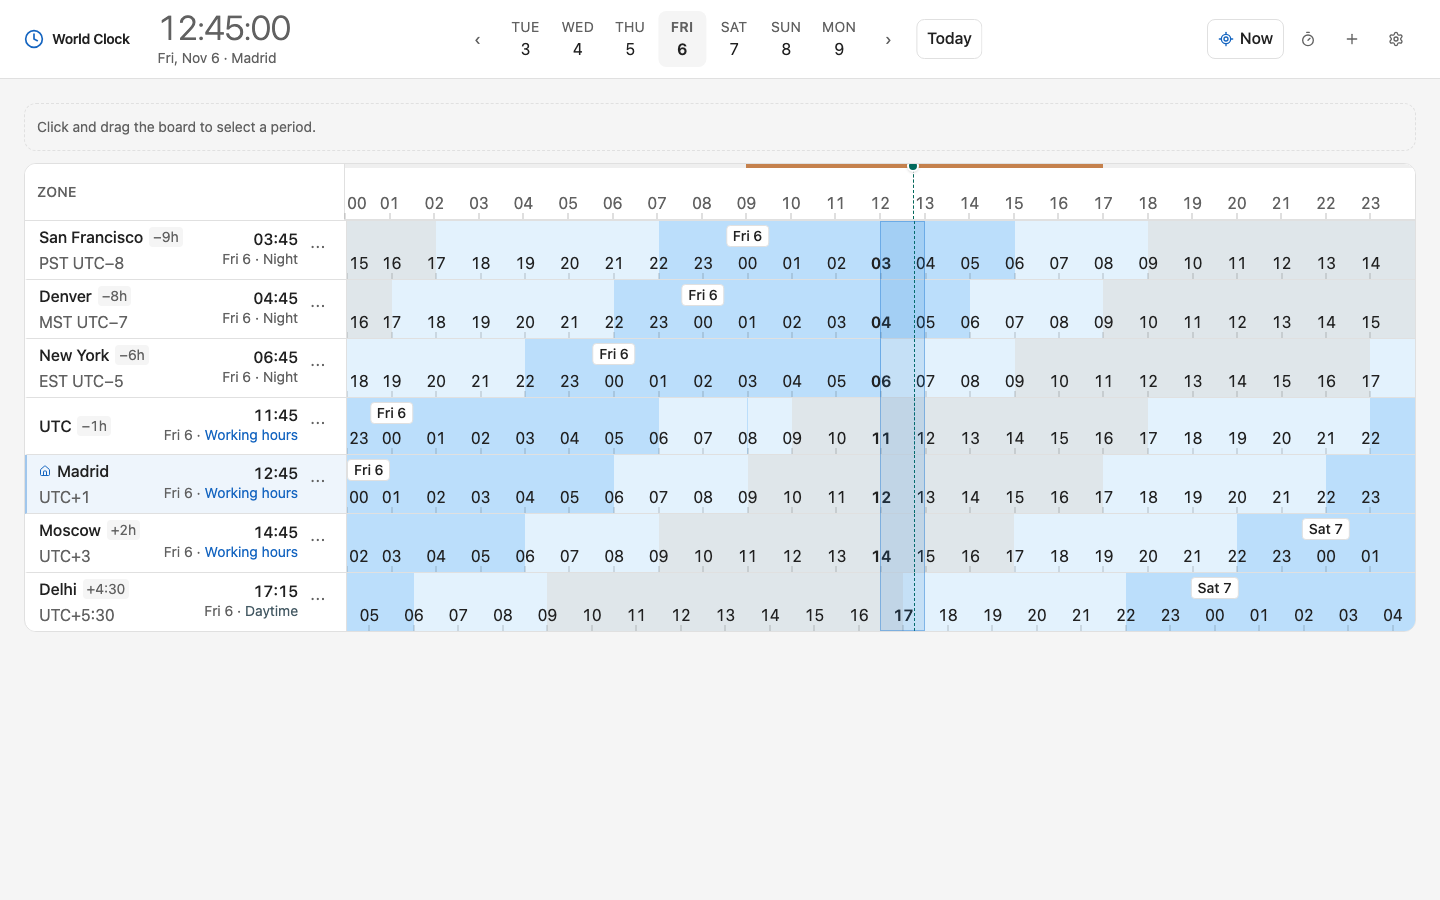
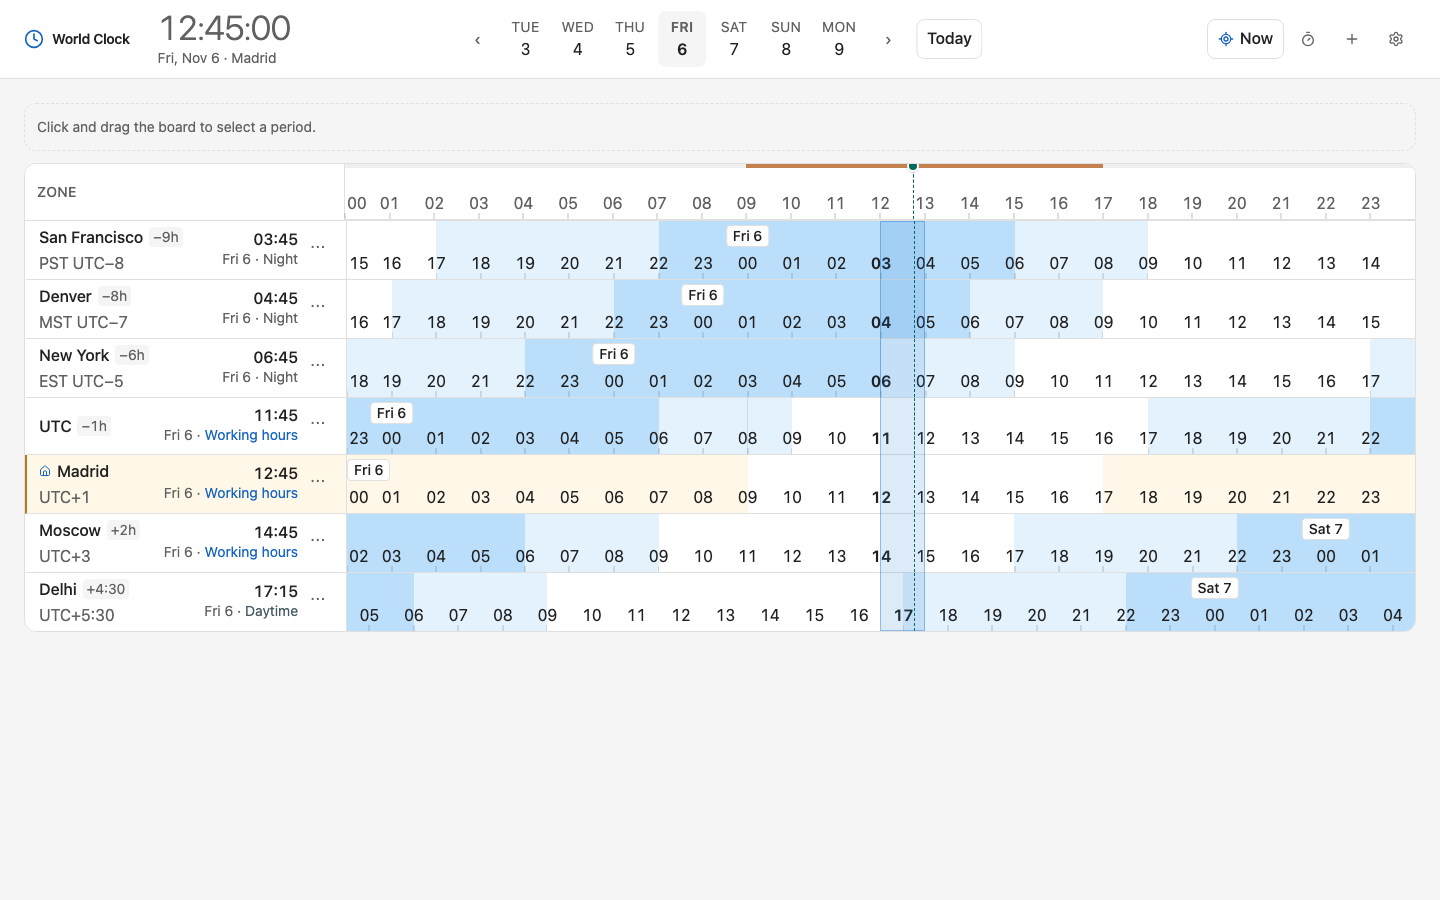
style: white work cells and warm home row
Make working-hours cells white and tint the entire home row, including its hour cells, with a light warm background and edge. Update palette docs and tests.

Changed region(s): [[0.2188, 0.2178, 1.0, 0.7156], [0.2188, 0.2178, 0.3125, 0.3733]]

diff --git a/src/lib/components/ZoneRow.svelte b/src/lib/components/ZoneRow.svelte
@@ -112,14 +112,14 @@
     isHovered
       ? 'border-l-accent bg-accent/5'
       : isHome
-        ? 'border-l-accent/40 bg-accent/[0.02]'
+        ? 'border-l-home-accent bg-home-row'
         : 'border-l-transparent'
   }`}
 >
   <div
     role="gridcell"
     class={`border-border sticky left-0 z-20 flex w-[120px] shrink-0 flex-wrap content-center items-center justify-between gap-x-2 gap-y-0.5 overflow-hidden border-r px-2 py-1 sm:w-[320px] sm:flex-nowrap sm:px-3 ${
-      isHovered ? 'bg-accent/10' : isHome ? 'bg-accent/5' : 'bg-surface-raised'
+      isHovered ? 'bg-accent/10' : isHome ? 'bg-home-row-header' : 'bg-surface-raised'
     }`}
     title={`${model.timeZone} · ${formatUtcOffset(model.offsetMinutes)}`}
   >
@@ -241,10 +241,19 @@
       ></div>
     {/each}
 
+    {#if isHome}
+      <div
+        data-testid="home-row-fill"
+        class="bg-home-row pointer-events-none absolute inset-0 z-[1]"
+        aria-hidden="true"
+      ></div>
+    {/if}
+
     {#if showWorkingHours}
       {#each model.bands.work as segment (segment.start)}
         <div
-          class="bg-band-work absolute inset-y-0"
+          data-testid="work-cell"
+          class="bg-band-work absolute inset-y-0 z-[2]"
           style={`left: ${pct(segment.start)}; width: ${pct(segment.end - segment.start)}`}
         ></div>
       {/each}

diff --git a/src/app.css b/src/app.css
@@ -16,6 +16,9 @@
   --color-band-night: var(--band-night);
   --color-band-work: var(--band-work);
   --color-work-line: var(--work-line);
+  --color-home-row: var(--home-row);
+  --color-home-row-header: var(--home-row-header);
+  --color-home-accent: var(--home-accent);
   --color-band-text: var(--band-text);
   --color-band-marker: var(--band-marker);
   --color-band-marker-text: var(--band-marker-text);
@@ -44,11 +47,14 @@
   --band-day: #e3f2fd;
   --band-twilight: #e3f2fd;
   --band-night: #bbdefb;
-  --band-work: rgb(180 83 9 / 8%);
+  --band-work: #ffffff;
   --band-text: #212121;
   --band-marker: #ffffff;
   --band-marker-text: #212121;
   --work-line: #b45309;
+  --home-row: #fff8e8;
+  --home-row-header: #fff8e8;
+  --home-accent: #b7791f;
   --now: #26a69a;
   --focus-line: #00695c;
   --focus-line-ui: #00695c;
@@ -69,11 +75,14 @@
   --band-day: #e3f2fd;
   --band-twilight: #e3f2fd;
   --band-night: #bbdefb;
-  --band-work: rgb(251 191 36 / 12%);
+  --band-work: #ffffff;
   --band-text: #212121;
   --band-marker: #ffffff;
   --band-marker-text: #212121;
   --work-line: #fbbf24;
+  --home-row: #f5e9c8;
+  --home-row-header: #4e3d24;
+  --home-accent: #fbbf24;
   --now: #26a69a;
   --focus-line: #00695c;
   --focus-line-ui: #80cbc4;

diff --git a/e2e/world-clock.spec.ts b/e2e/world-clock.spec.ts
@@ -621,6 +621,13 @@ test('keeps work-hour markings warm instead of night blue', async ({ page }) => 
   expect(channels).toHaveLength(3);
   const [red = 0, , blue = 0] = channels;
   expect(red).toBeGreaterThan(blue);
+  expect(
+    await page
+      .getByTestId('work-cell')
+      .first()
+      .evaluate((element) => getComputedStyle(element).backgroundColor),
+  ).toBe('rgb(255, 255, 255)');
+  await expect(page.getByTestId('home-row-fill')).toBeVisible();
 });
 
 test('keeps the header height when the relative badge appears', async ({ page }) => {

diff --git a/docs/typography.md b/docs/typography.md
@@ -61,17 +61,19 @@ Rules:
 
 The light theme follows Material Blue:
 
-| Token        | Value                 | Use                           |
-| ------------ | --------------------- | ----------------------------- |
-| Page         | `#f5f5f5`             | Outside the app surface       |
-| Surface      | `#ffffff`             | Header, board, controls       |
-| Text         | `#212121`             | Primary labels and numbers    |
-| Muted        | `#757575`             | Zone metadata and helpers     |
-| Accent       | `#1976d2`             | Primary actions and selection |
-| Focus        | `#26a69a`             | Focus line and range handles  |
-| Day band     | `#e3f2fd`             | Daylight and twilight hours   |
-| Night band   | `#bbdefb`             | Night hours                   |
-| Work marking | `#b45309` / `#fbbf24` | Work-hours strip and tint     |
+| Token      | Value                 | Use                           |
+| ---------- | --------------------- | ----------------------------- |
+| Page       | `#f5f5f5`             | Outside the app surface       |
+| Surface    | `#ffffff`             | Header, board, controls       |
+| Text       | `#212121`             | Primary labels and numbers    |
+| Muted      | `#757575`             | Zone metadata and helpers     |
+| Accent     | `#1976d2`             | Primary actions and selection |
+| Focus      | `#26a69a`             | Focus line and range handles  |
+| Day band   | `#e3f2fd`             | Daylight and twilight hours   |
+| Night band | `#bbdefb`             | Night hours                   |
+| Work strip | `#b45309` / `#fbbf24` | Work-hours indicator          |
+| Work cells | `#ffffff`             | Working-hours cells           |
+| Home row   | `#fff8e8` / `#f5e9c8` | Home-zone highlight           |
 
 Status text uses the semantic warning and danger tokens. Dark mode keeps the
 same hierarchy with a dark surface, lighter blue accents, and yellow work-hour

diff --git a/AGENTS.md b/AGENTS.md
@@ -82,8 +82,10 @@ docs/architecture.md  current design
 - Use semantic color tokens for status text: `text-status-day`, `text-warning`,
   `text-danger`, and `text-accent-text`. Do not use raw palette utilities for
   text that sits on themed surfaces.
-- Work-hours strip and tint use the amber `work-line`/`band-work` tokens;
-  do not reuse the blue night palette for work markings.
+- Work-hours strip uses the amber `work-line` token; work cells use the
+  white `band-work` token. Do not reuse the blue night palette for work markings.
+- The home row uses the warm `home-row`/`home-row-header` tokens and
+  `home-accent` edge, including its hour cells; never use blue for home emphasis.
 - Keep focus/now lines, hour boundary ticks, and range fills aligned across
   the ruler and rows.
 - Base bands are day 08:00–18:00, twilight 06:00–08:00 and 18:00–22:00, night 22:00–06:00.
